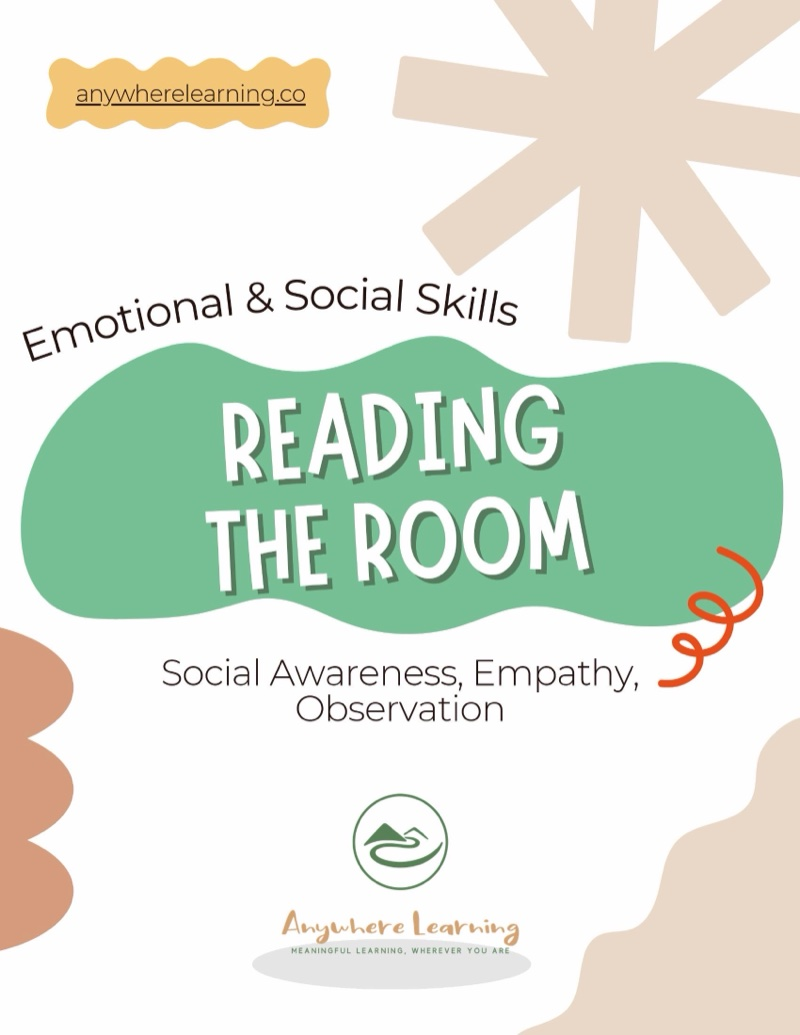
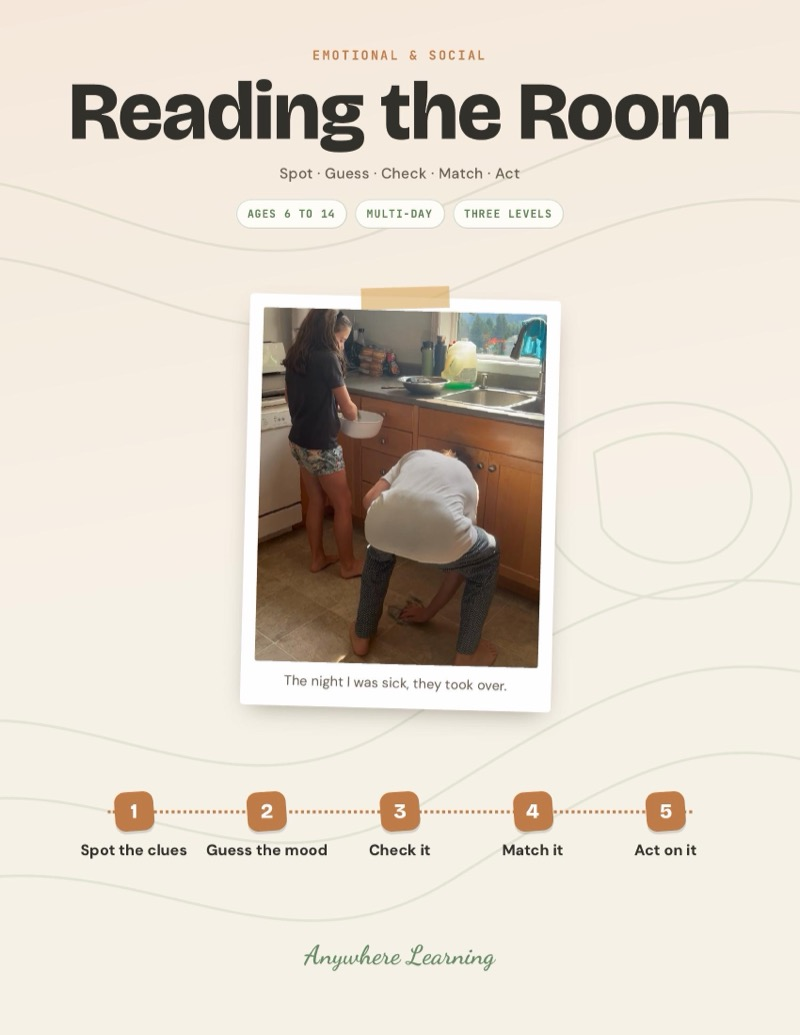
Reading the Room: redesigned guide, sick-night kitchen story and video still, National Palace example, ages 6-14, multi-day

diff --git a/scripts/seed.ts b/scripts/seed.ts
@@ -143,7 +143,7 @@ async function seed() {
     { name: 'Hard Thing Challenge', slug: 'hard-thing-challenge', description: 'Your kid picks one hard thing they cannot do yet and works at it for a whole stretch, like a month or a summer. They set a finish line and checkpoints, practise in small pieces, get through the messy middle where most people quit, and learn the difference between skipping one part and quitting the goal.', shortDescription: 'Perseverance activity for kids ages 6-14: pick one hard thing, set a finish line, get through the messy middle and finish what they started.', priceCents: 599, compareAtPriceCents: null, stripePriceId: 'price_1TdZphAkIBECpwGmehQbYZr2', blobUrl: 'https://xkj3tzlgu6ylgllk.public.blob.vercel-storage.com/Emotional%20%26%20Social%20Skills%20-%20The%20Hard%20Thing%20Challenge.pdf', imageUrl: '/products/hard-thing-challenge.jpg', category: 'emotional-social-skills', isBundle: false, bundleProductIds: null, activityCount: null, ageRange: 'Ages 6–14', sortOrder: 225, active: true },
     { name: 'The Repair Conversation', slug: 'repair-conversation', description: 'Practise what to do after hurting someone: own it, skip excuses, ask what would help, follow through.', shortDescription: 'Own a mistake and repair the relationship.', priceCents: 599, compareAtPriceCents: null, stripePriceId: 'price_1TdZpiAkIBECpwGmg1Xu67b3', blobUrl: 'https://xkj3tzlgu6ylgllk.public.blob.vercel-storage.com/Emotional%20%26%20Social%20Skills%20-%20The%20Repair%20Conversation.pdf', imageUrl: '/products/repair-conversation.jpg', category: 'emotional-social-skills', isBundle: false, bundleProductIds: null, activityCount: null, ageRange: 'Ages 6–14', sortOrder: 226, active: false },
     { name: 'The Kindness Missions', slug: 'kindness-missions', description: 'Build and work through a deck of real-world kindness challenges that take effort and noticing.', shortDescription: 'A deck of real-world kindness missions.', priceCents: 599, compareAtPriceCents: null, stripePriceId: 'price_1TdZpiAkIBECpwGmna3K79c3', blobUrl: 'https://xkj3tzlgu6ylgllk.public.blob.vercel-storage.com/Emotional%20%26%20Social%20Skills%20-%20The%20Kindness%20Missions.pdf', imageUrl: '/products/kindness-missions.jpg', category: 'emotional-social-skills', isBundle: false, bundleProductIds: null, activityCount: null, ageRange: 'Ages 6–14', sortOrder: 227, active: true },
-    { name: 'Reading the Room', slug: 'reading-the-room', description: 'Practise noticing what others feel before words. Scan a room, read body language, infer the backstory.', shortDescription: 'Read body language and scan a room.', priceCents: 599, compareAtPriceCents: null, stripePriceId: 'price_1TdZpjAkIBECpwGmj3tD6ezs', blobUrl: 'https://xkj3tzlgu6ylgllk.public.blob.vercel-storage.com/Emotional%20%26%20Social%20Skills%20-%20Reading%20the%20Room.pdf', imageUrl: '/products/reading-the-room.jpg', category: 'emotional-social-skills', isBundle: false, bundleProductIds: null, activityCount: null, ageRange: 'Ages 9–14', sortOrder: 228, active: true },
+    { name: 'Reading the Room', slug: 'reading-the-room', description: 'Your kid learns to notice how the people and places around them are doing. They spot clues in faces, voices and rooms, guess the mood, check it with one kind question, match their voice and energy to it, and then do something about it, like taking over dinner when a parent is sick.', shortDescription: 'Social awareness activity for kids ages 6-14: spot the clues, check with one kind question, match the room and act on what they notice.', priceCents: 599, compareAtPriceCents: null, stripePriceId: 'price_1TdZpjAkIBECpwGmj3tD6ezs', blobUrl: 'https://xkj3tzlgu6ylgllk.public.blob.vercel-storage.com/Emotional%20%26%20Social%20Skills%20-%20Reading%20the%20Room.pdf', imageUrl: '/products/reading-the-room.jpg', category: 'emotional-social-skills', isBundle: false, bundleProductIds: null, activityCount: null, ageRange: 'Ages 6–14', sortOrder: 228, active: true },
     { name: 'Conflict Fix', slug: 'conflict-fix', description: 'Your kids learn to fix a fight, not just end it. They cool down first, tell what happened without blame, own their own part, hear the other side and agree on a fix, so the same argument about whose turn it is does not come back tomorrow.', shortDescription: 'Conflict resolution for kids ages 6-14: cool down, tell it, own your part, hear their side and agree on a fix that stops the next fight.', priceCents: 599, compareAtPriceCents: null, stripePriceId: 'price_1TdZpjAkIBECpwGmhgx7Rtab', blobUrl: 'https://xkj3tzlgu6ylgllk.public.blob.vercel-storage.com/Emotional%20%26%20Social%20Skills%20-%20The%20Conflict%20Fix.pdf', imageUrl: '/products/conflict-fix.jpg', category: 'emotional-social-skills', isBundle: false, bundleProductIds: null, activityCount: null, ageRange: 'Ages 6–14', sortOrder: 229, active: true },
     { name: 'The Solo Mission', slug: 'solo-mission', description: 'Take on age-right do-it-without-me challenges: order at a counter, call a place, run an errand.', shortDescription: 'Solo missions in the real world.', priceCents: 599, compareAtPriceCents: null, stripePriceId: 'price_1TdZpkAkIBECpwGmxbgBC5hB', blobUrl: 'https://xkj3tzlgu6ylgllk.public.blob.vercel-storage.com/Emotional%20%26%20Social%20Skills%20-%20The%20Solo%20Mission.pdf', imageUrl: '/products/solo-mission.jpg', category: 'emotional-social-skills', isBundle: false, bundleProductIds: null, activityCount: null, ageRange: 'Ages 6–14', sortOrder: 230, active: true },
     { name: 'Worry Sorter', slug: 'worry-sorter', description: 'Your kid learns that most worries are two things stuck together: a part they cannot change and a part they can. They get their worries out, pin down the real one, sort theirs from the rest, plan their part, then check back afterwards to see what really happened.', shortDescription: 'Worry activity for kids ages 6-14: pin down the real worry, sort what they can change from what they cannot, plan their part and let the rest go.', priceCents: 599, compareAtPriceCents: null, stripePriceId: 'price_1TdZpkAkIBECpwGmGO1cFkPF', blobUrl: 'https://xkj3tzlgu6ylgllk.public.blob.vercel-storage.com/Emotional%20%26%20Social%20Skills%20-%20The%20Worry%20Sorter.pdf', imageUrl: '/products/worry-sorter.jpg', category: 'emotional-social-skills', isBundle: false, bundleProductIds: null, activityCount: null, ageRange: 'Ages 6–14', sortOrder: 231, active: true },

diff --git a/lib/product-descriptions.ts b/lib/product-descriptions.ts
@@ -2724,22 +2724,24 @@ export const productDescriptions: Record<string, ProductDescription> = {
   },
   'reading-the-room': {
     opening:
-      'Your child practises noticing what other people feel before words show up. In cafes, family dinners, and playgrounds, they learn to scan a room, read body language, and infer the backstory. The social awareness most adults still don\'t have.',
+      'Your kid learns to notice how the people and places around them are doing. They spot clues in faces, voices and rooms, guess the mood, check it with one kind question, match their voice and energy to it, and then do something about it, like taking over dinner when a parent is sick.',
     whatsIncluded: [
-      'Room-scan framework for real settings',
-      'Body-language signals: what to actually watch for',
-      'Backstory-inference step (guess and check)',
-      'Real-world observation log across 5 settings',
-      'Version 2 reflection on what got easier',
+      'Five steps, from spotting the clues to acting on what they notice',
+      'People clues, Room clues, Check it and Match it cards',
+      'A worked example: noticing a parent was sick and taking over dinner',
+      'My room reading log, for clues, checks and what they did',
+      'Three levels per step, from ages 6 to 14',
     ],
-    skillTags: ['Social Awareness', 'Empathy', 'Observation'],
+    skillTags: ['Social Awareness', 'Empathy', 'Observation', 'Communication', 'Kindness'],
     insideTheLearning: {
       lead:
-        'Your child practises reading a room before anyone says anything. Body language, tone, what is not being said. Then the harder judgement: knowing whether to step in, back off, or stay quiet.',
+        'Reading the room has three parts: noticing the clues, checking what they mean and doing something about it. Most kids stop at noticing. Your kid practises all three, from lowering their voice in a quiet place to asking if someone is okay and stepping in to help.',
       skills: [
-        { skill: 'Social Awareness', where: 'Reading someone\'s emotional state before words confirm it' },
-        { skill: 'Observation', where: 'Slowing down enough to actually look, and knowing when to stay quiet' },
-        { skill: 'Empathy', where: 'Stitching the clues together into what someone else is experiencing' },
+        { skill: 'Social Awareness', where: 'Spotting clues in faces, voices and the room itself' },
+        { skill: 'Empathy', where: 'Guessing how someone else is doing, then checking' },
+        { skill: 'Observation', where: 'Clues first, guesses second' },
+        { skill: 'Communication', where: 'One short, kind question instead of a guess' },
+        { skill: 'Kindness', where: 'Doing something about what they notice, like taking over a job' },
       ],
     },
     format: 'Project Guide',

diff --git a/lib/fallback-products.ts b/lib/fallback-products.ts
@@ -2450,20 +2450,20 @@ export const fallbackProducts: FallbackProduct[] = [
     name: "Reading the Room",
     slug: "reading-the-room",
     description:
-      "Your child practises noticing what other people feel before words show up. In cafes, family dinners, and playgrounds, they learn to scan a room, read body language, and infer the backstory. The social awareness most adults still don't have.",
+      "Your kid learns to notice how the people and places around them are doing. They spot clues in faces, voices and rooms, guess the mood, check it with one kind question, match their voice and energy to it, and then do something about it, like taking over dinner when a parent is sick.",
     shortDescription:
-      "Social awareness activity for kids ages 9-14: read body language, scan a room, and notice what others feel. Empathy in action.",
+      "Social awareness activity for kids ages 6-14: spot the clues, check with one kind question, match the room and act on what they notice.",
     priceCents: 599,
     compareAtPriceCents: null,
     stripePriceId: "price_1TdZpjAkIBECpwGmj3tD6ezs",
     blobUrl: "https://xkj3tzlgu6ylgllk.public.blob.vercel-storage.com/Emotional%20%26%20Social%20Skills%20-%20Reading%20the%20Room.pdf",
-    imageUrl: "/products/reading-the-room.jpg?v=2",
-    previewFile: "Preview Emotional & Social Skills - Reading the Room.pdf",
+    imageUrl: "/products/reading-the-room.jpg?v=3",
+    previewFile: "Preview Emotional & Social Skills - Reading the Room v3.pdf",
     category: "emotional-social-skills",
     isBundle: false,
     bundleProductIds: null,
     activityCount: null,
-    ageRange: "Ages 9–14",
+    ageRange: "Ages 6–14",
     sortOrder: 228,
     active: true,
     createdAt: new Date("2026-05-29"),

diff --git a/scripts/create-stripe-products.ts b/scripts/create-stripe-products.ts
@@ -125,7 +125,7 @@ const catalog = [
   { slug: 'hard-thing-challenge', name: 'Hard Thing Challenge', priceCents: 599, description: 'Perseverance activity for kids ages 6-14: pick one hard thing, set a finish line, get through the messy middle and finish what they started.' },
   { slug: 'repair-conversation', name: 'The Repair Conversation', priceCents: 599, description: 'Own a mistake, skip excuses, ask what would help, follow through.' },
   { slug: 'kindness-missions', name: 'The Kindness Missions', priceCents: 599, description: 'A deck of real-world kindness challenges that take effort and noticing.' },
-  { slug: 'reading-the-room', name: 'Reading the Room', priceCents: 599, description: 'Scan a room, read body language, infer the backstory.' },
+  { slug: 'reading-the-room', name: 'Reading the Room', priceCents: 599, description: 'Social awareness activity for kids ages 6-14: spot the clues, check with one kind question, match the room and act on what they notice.' },
   { slug: 'conflict-fix', name: 'Conflict Fix', priceCents: 599, description: 'Conflict resolution for kids ages 6-14: cool down, tell it, own your part, hear their side and agree on a fix that stops the next fight.' },
   { slug: 'solo-mission', name: 'The Solo Mission', priceCents: 599, description: 'Age-right do-it-without-me challenges that build real independence.' },
   { slug: 'worry-sorter', name: 'Worry Sorter', priceCents: 599, description: 'Worry activity for kids ages 6-14: pin down the real worry, sort what they can change from what they cannot, plan their part and let the rest go.' },

diff --git a/lib/activity-blob-urls.ts b/lib/activity-blob-urls.ts
@@ -101,7 +101,7 @@ export const ACTIVITY_BLOB_URLS: Record<string, string> = {
   "problem-solver": "https://xkj3tzlgu6ylgllk.public.blob.vercel-storage.com/Planning%20%26%20Problem-Solving%20Problem-Solver%20Studio%20v8.pdf",
   "product-design-lab": "https://xkj3tzlgu6ylgllk.public.blob.vercel-storage.com/Entrepreneurship%20-%20Product%20Design%20Lab%20v2.pdf",
   "prompt-like-a-coach": "https://xkj3tzlgu6ylgllk.public.blob.vercel-storage.com/AI%20%26%20Digital%20Literacy%20-%20PROMPT%20LIKE%20A%20COACH%20v2.pdf",
-  "reading-the-room": "https://xkj3tzlgu6ylgllk.public.blob.vercel-storage.com/Emotional%20%26%20Social%20Skills%20-%20Reading%20the%20Room%20v2.pdf",
+  "reading-the-room": "https://xkj3tzlgu6ylgllk.public.blob.vercel-storage.com/Emotional%20%26%20Social%20Skills%20-%20Reading%20the%20Room%20v3.pdf",
   "repair-conversation": "https://xkj3tzlgu6ylgllk.public.blob.vercel-storage.com/Emotional%20%26%20Social%20Skills%20-%20The%20Repair%20Conversation%20v2.pdf",
   "road-trip-calculator": "https://xkj3tzlgu6ylgllk.public.blob.vercel-storage.com/Real-world%20math%20-%20Road%20trip%20calculator%20v11.pdf",
   "rube-goldberg-machine": "https://xkj3tzlgu6ylgllk.public.blob.vercel-storage.com/Creativity%20%26%20Maker%20Build%20a%20Rube%20Goldberg%20Machine%20v7.pdf",

diff --git a/lib/activity-effort.ts b/lib/activity-effort.ts
@@ -140,7 +140,7 @@ export const EFFORT_BY_SLUG: Record<string, Effort> = {
   'hard-thing-challenge': 'Project',
   'repair-conversation': 'Quick',
   'kindness-missions': 'Project',
-  'reading-the-room': 'Half-Day',
+  'reading-the-room': 'Project',
   'conflict-fix': 'Project',
   'solo-mission': 'Project',
   'worry-sorter': 'Project',
